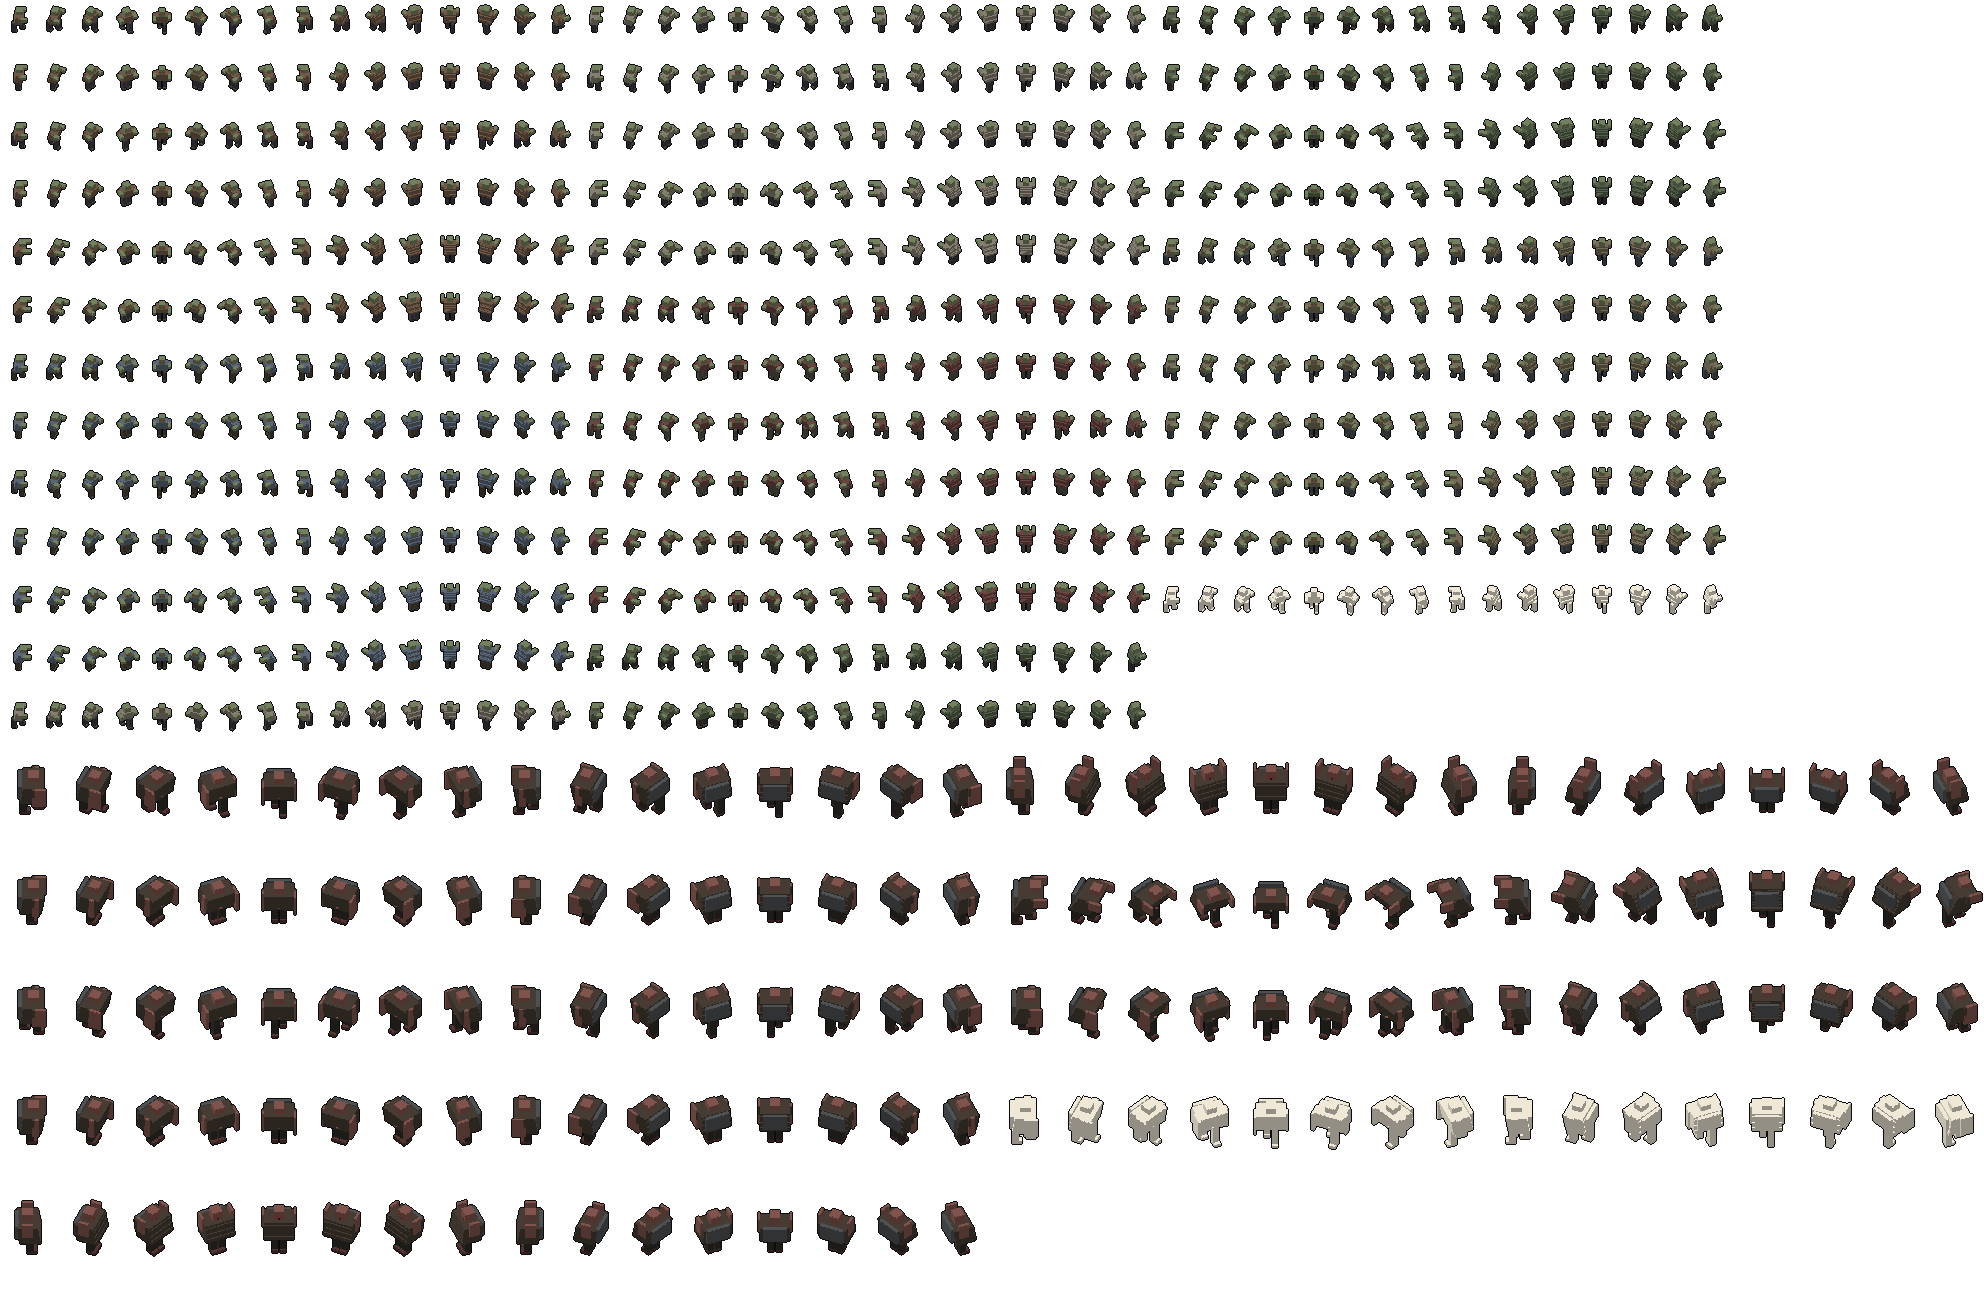
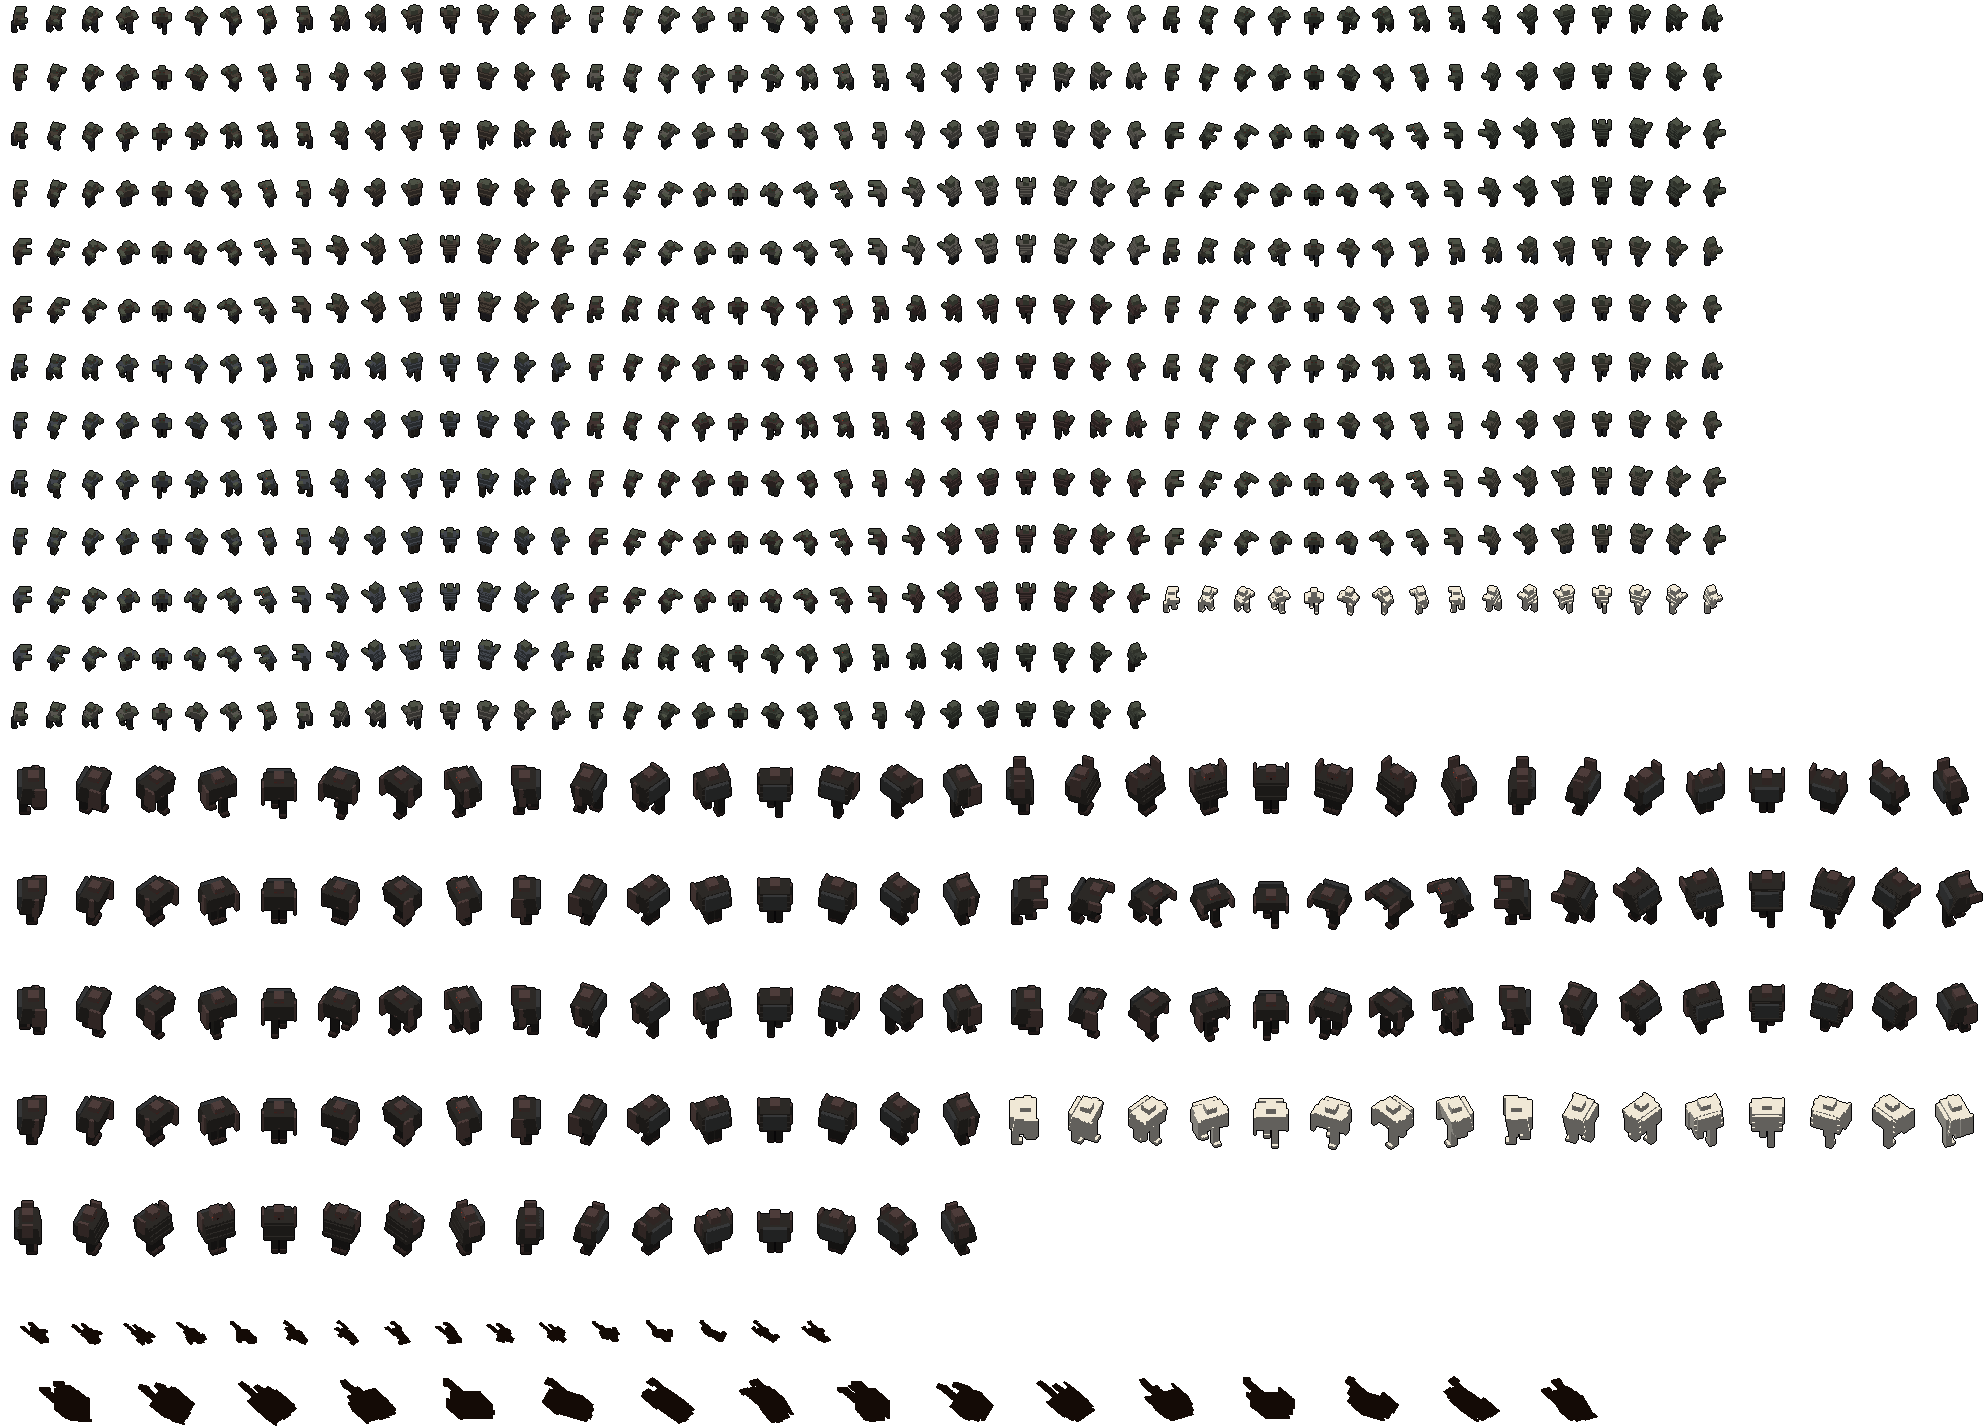
Art: zombies read as one dark mass (frame grade) + baked cast shadows in the atlas

diff --git a/tools/art/zombies.py b/tools/art/zombies.py
@@ -19,7 +19,7 @@ from PIL import Image
 
 HERE = os.path.dirname(os.path.abspath(__file__))
 sys.path.insert(0, HERE)
-from voxel_render import render_frame, canvas_for, write_import  # noqa: E402
+from voxel_render import render_frame, canvas_for, write_import, render_shadow, shadow_canvas, SHADOW_ALPHA  # noqa: E402
 
 OUT = os.path.join(HERE, "..", "..", "art", "zombies")
 HEADINGS = 16
@@ -49,6 +49,12 @@ CLOTHES = [
 EYE = (190, 60, 40)                   # dull red eyes (not enemy-rig red, no glow)
 FLASH = (240, 232, 214)               # hit-flash (whole silhouette)
 TANK_SKIN_DARK = (84, 54, 50)
+# Ebbtide "dark mass" grade (Cameron 2026-11-04: zombies read as one dark mass):
+# applied to the rendered frames (not the palette), so tuning.gd colours stay put.
+# Each pixel is pulled MASS_DESAT toward its own grey, then scaled by MASS_DARK.
+# Eyes and the hit-flash keep their colour so hits and faces still read.
+MASS_DESAT = 0.45
+MASS_DARK = 0.68
 SAMPLE_COLOURS = {"ZOMBIE_CLOTH_%d" % i: list(c[0]) + list(c[1]) for i, c in enumerate(CLOTHES)}
 SAMPLE_COLOURS.update({"ZOMBIE_EYE": list(EYE), "ZOMBIE_FLASH": list(FLASH)})
 
@@ -142,6 +148,32 @@ def flash_of(g):
     return f
 
 
+def mass_grade(f):
+    f = f.copy()
+    rgb = f[..., :3].astype(float)
+    keep = (f[..., 3] == 0) | np.all(f[..., :3] == np.array(FLASH), -1)
+    for lv in (EYE,):
+        keep |= np.all(np.abs(rgb - np.array(lv)) < 60, -1) & (rgb[..., 0] > rgb[..., 1] + 60)
+    grey = rgb.mean(-1, keepdims=True)
+    g = (grey + (rgb - grey) * (1 - MASS_DESAT)) * MASS_DARK
+    f[..., :3] = np.where(keep[..., None], f[..., :3], np.clip(g, 0, 255).astype(np.uint8))
+    return f
+
+
+def shadow_frames(grid, n_head):
+    """Baked cast shadow of one pose (walk_0), same sun as the rigs, cropped
+    symmetric about the ground point."""
+    sc = shadow_canvas(grid.shape)
+    fr = [render_shadow(grid, i * 360.0 / n_head, canvas=sc) for i in range(n_head)]
+    c = sc // 2
+    mx = my = 0
+    for f in fr:
+        ys, xs = np.nonzero(f[..., 3])
+        mx, my = max(mx, abs(xs - c).max()), max(my, abs(ys - c).max())
+    mx, my = int(mx) + 1, int(my) + 1
+    return [f[c - my:c + my, c - mx:c + mx] for f in fr], (2 * mx, 2 * my)
+
+
 def render_rows(rows, n_head, P):
     """rows: list of grids (or ('flash', grid)). Returns (frames[row][h], canvas)."""
     canvas = max(canvas_for(r.shape) for r in rows)
@@ -152,7 +184,7 @@ def render_rows(rows, n_head, P):
             gi = np.where(g < 0, len(cols), g)
             cols = cols + [FLASH + (255,)]
             g = gi
-        out.append([render_frame(g, cols, i * 360.0 / n_head, canvas=canvas) for i in range(n_head)])
+        out.append([mass_grade(render_frame(g, cols, i * 360.0 / n_head, canvas=canvas)) for i in range(n_head)])
     # Crop every frame to one tight rectangle, symmetric about the centre (the
     # ground point stays the frame centre). Not square: at the 45 deg tilt a
     # standing body is taller than it is wide, and squares overflow 2048 px.
@@ -182,6 +214,7 @@ def build():
     sh_rows.append(flash_of(humanoid(P, SH_SCALE, ZOMBIE, ZOMBIE_DARK, *CLOTHES[0], "walk", 0))); names.append("flash")
     fr, cv = render_rows(sh_rows, HEADINGS, P)
     blocks.append(("shambler", fr, cv, names, len(CLOTHES)))
+    shadows = [("shambler",) + shadow_frames(np.abs(sh_rows[0]), HEADINGS)]
     # Tank: ~2x, heavy
     P = Pal()
     t_rows, tn = [], []
@@ -195,6 +228,7 @@ def build():
     t_rows.append(flash_of(t_rows[0])); tn.append("flash")
     fr, cv = render_rows(t_rows, HEADINGS, P)
     blocks.append(("tank", fr, cv, tn, 1))
+    shadows.append(("tank",) + shadow_frames(np.abs(t_rows[0]), HEADINGS))
     # Pack: each row is a strip of 16 headings; strips fill two columns so the
     # atlas stays under 2048 px both ways (safe for GLES3 phones).
     Wd = 2048
@@ -208,6 +242,12 @@ def build():
             rows[names[r]] = [c * cv * HEADINGS, y + rr * chh]
         placed.append((kind, fr, (cv, chh), names, variants, rows))
         y += per_col * chh
+    # Shadow strips (one per kind, 16 headings) under the body strips.
+    shadow_at = {}
+    for kind, sfr, (sw, shh) in shadows:
+        assert sw * HEADINGS <= Wd, (kind, sw)
+        shadow_at[kind] = (0, y, sw, shh, sfr)
+        y += shh
     Ht = y
     Wd = max(r[0] + cv[0] * HEADINGS for _, _, cv, _, _, rows in placed for r in rows.values())
     assert Wd <= 2048 and Ht <= 2048, (Wd, Ht)
@@ -222,6 +262,11 @@ def build():
         for n, (x0, y0) in rows.items():   # P0 art_atlas.gd regions: "<kind>/<row>/<heading>"
             for h in range(HEADINGS):
                 meta.setdefault("regions", {})["%s/%s/%d" % (kind, n, h)] = [x0 + h * cv, y0, cv, chh]
+    for kind, (x0, y0, sw, shh, sfr) in shadow_at.items():
+        for h, img in enumerate(sfr):
+            atlas.paste(Image.fromarray(img), (x0 + h * sw, y0))
+            meta["regions"]["%s/shadow/%d" % (kind, h)] = [x0 + h * sw, y0, sw, shh]
+        meta["kinds"][kind]["shadow"] = {"frame_w": sw, "frame_h": shh, "alpha": SHADOW_ALPHA}
     os.makedirs(OUT, exist_ok=True)
     p = os.path.join(OUT, "zombies.png")
     atlas.save(p)
